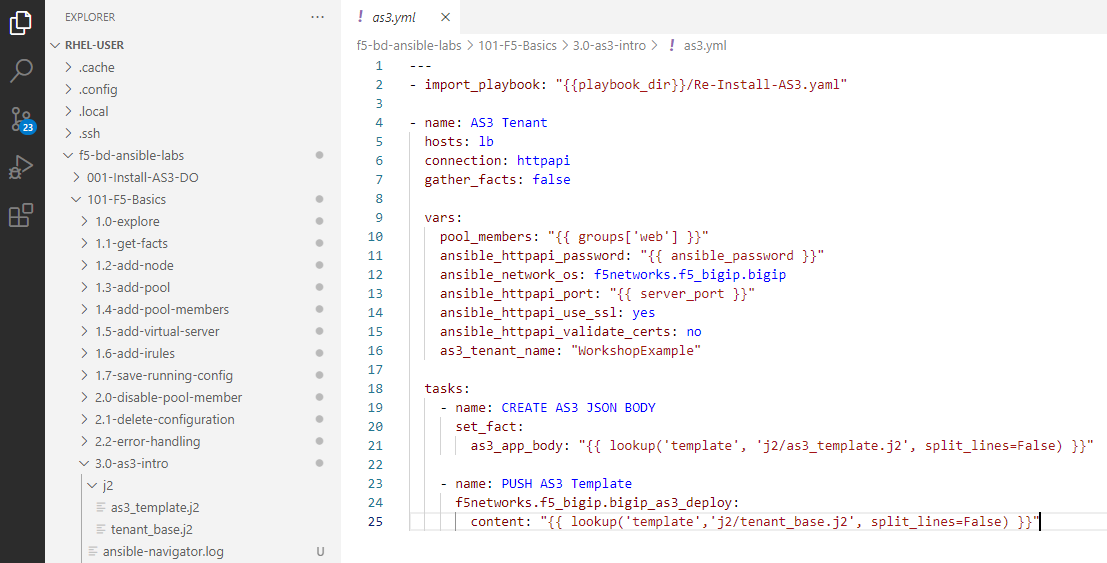
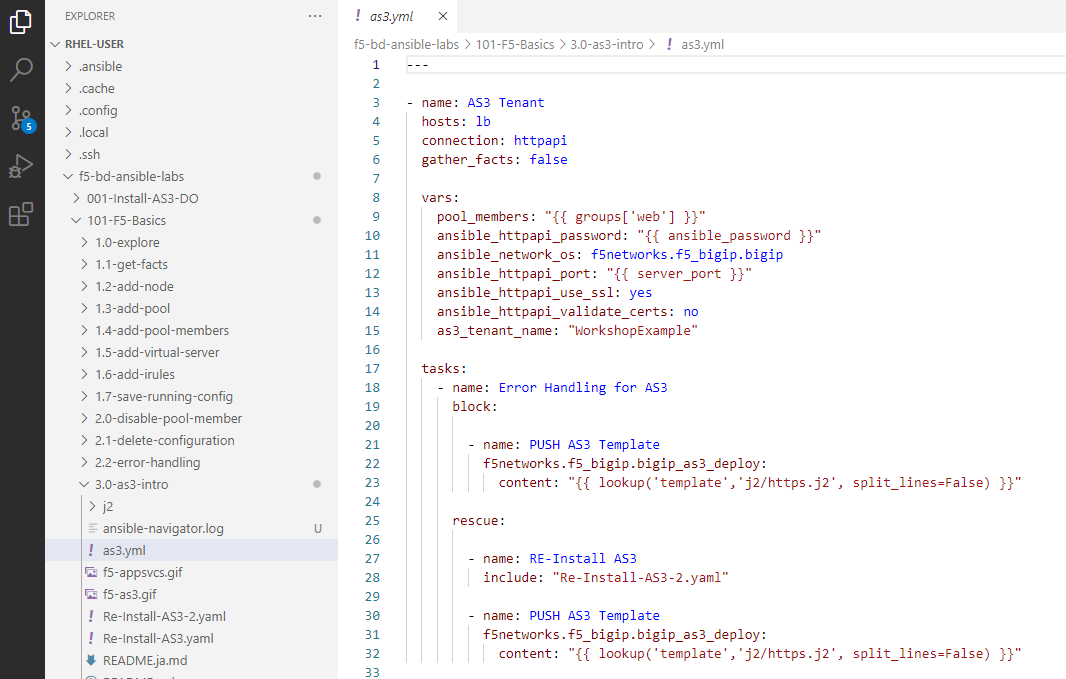
AS3 fixes for the 101 usecase

diff --git a/docs/101/3.0/3.0-as3-intro.rst b/docs/101/3.0/3.0-as3-intro.rst
@@ -34,73 +34,69 @@ Step 2:
 
 Before executing the Playbook, its important to understand how AS3 works. AS3 requires a JSON template to be handed as an API call to F5 BIG-IP. There are two parts:
 
-   - examine the ``tenant_base.j2`` located in the j2 folder
+   - examine the ``https.j2`` located in the j2 folder
 
       .. code:: yaml
 
          {
-            "class": "AS3",
-            "action": "deploy",
-            "persist": true,
-            "declaration": {
-               "class": "ADC",
-               "schemaVersion": "3.2.0",
-               "id": "testid",
-               "label": "test-label",
-               "remark": "test-remark",
-               "WorkshopExample":{
-                     "class": "Tenant",
-                     {{ as3_app_body }}
+         "class": "AS3",
+         "action": "deploy",
+         "persist": true,
+         "declaration": {
+            "class": "ADC",
+            "schemaVersion": "3.0.0",
+            "id": "usecase1",
+            "label": "Ansible Workshops",
+            "remark": "HTTPS with pool",
+            "{{ as3_tenant_name }}": {
+               "class": "Tenant",
+               "AS3-UseCase-1": {
+               "class": "Application",
+               "service_Main": {
+                  "class": "Service_HTTPS",
+                  "virtualAddresses": [
+                     "{{ private_ip }}"
+                  ],
+                  "profileMultiplex": {
+                     "bigip": "/Common/oneconnect"
+                  },
+                  "pool": "app_pool",
+                  "serverTLS": {
+                           "bigip": "/Common/clientssl"
+                        },
+                  "persistenceMethods": []
+               },
+               "app_pool": {
+                  "class": "Pool",
+                        "minimumMembersActive": 0,
+                        "minimumMonitors": "all",
+                  "monitors": [
+                     "http"
+                  ],
+                  "members": [{
+                     "servicePort": 443,
+                     "serverAddresses": [
+                           {% set comma = joiner(",") %}
+                           {% for mem in pool_members %}
+                                 {{comma()}} "{{  hostvars[mem]['private_ip']  }}"
+                           {% endfor %}
+                     ]
+                  }]
+               }
                }
             }
          }
+         }
 
-   ``tenant_base.j2`` is a standard template that can be used to identify a tenant. The important parts to understand are:
+   ``https.j2`` is a JSON representation of the Web Application. The important parts to note are:
+
+   -  The template can use variables just like tasks do in previous exercises. In this case the virtual IP address is the private_ip from our inventory.
+   -  There is a virtual server named ``service_Main``.
 
       -  ``"WorkshopExample"`` - this is the name of our Tenant. The AS3 will create a tenant for this particular WebApp. A WebApp in this case is a virtual server that load balances between our two web servers.
       -  ``"class": "Tenant"`` - this indicates that ``WorkshopExample`` is a Tenant.
       -  ``{{ as3_app_body }}`` - this is a variable that will point to the second jinja2 template which is the actual WebApp.
-
-   - examine the ``as3_template.j2`` located in the j2 folder
-
-      .. code:: yaml
-
-         "web_app": {
-            "class": "Application",
-            "template": "http",
-            "serviceMain": {
-               "class": "Service_HTTP",
-               "virtualAddresses": [
-                     "{{private_ip}}"
-               ],
-               "pool": "app_pool"
-            },
-            "app_pool": {
-               "class": "Pool",
-               "monitors": [
-                     "http"
-               ],
-               "members": [
-                     {
-                        "servicePort": 443,
-                        "serverAddresses": [
-                           {% set comma = joiner(",") %}
-                           {% for mem in pool_members %}
-                                 {{comma()}} "{{  hostvars[mem]['ansible_host']  }}"
-                           {% endfor %}
-
-                        ]
-                     }
-               ]
-            }
-         }
-
-   This template is a JSON representation of the Web Application. The important parts to note are:
-
-   -  The template can use variables just like tasks do in previous exercises. In this case the virtual IP address is the private_ip from our inventory.
-   -  There is a virtual server named ``serviceMain``.
-
-      -  ``"class": "Service_HTTP"`` - defines the class of application service delivered, in this case its a HTTP Virtual Server.
+      -  ``"class": "Service_HTTPS"`` - defines the class of application service delivered, in this case its a HTTP Virtual Server.
       -  ``"virtualAddresses":`` - is an array object that contains the variable private_ip which is used for the Virtual Server being created. 
       -  ``"pool": "app_pool"`` - utlizes a pool created further down the template to import the web servers.
 
@@ -110,7 +106,7 @@ Before executing the Playbook, its important to understand how AS3 works. AS3 re
       -  ``"monitors":`` - Can utilize a built-in or created monitor (typically created in the AS3 template) to setup proper monitoring for the pool memebers.
       -  ``"members"`` - An arraylist of members and their service ports to attach to the created pool to deliver the application. 
 
-   **In Summary** the ``tenant_base.j2`` and ``as3_template.j2`` create one single JSON payload that represents a Web Application. We will build a Playbook that will send this JSON payload to a F5 BIG-IP.
+   **In Summary** the ``https.j2`` is a single JSON payload that represents a Web Application. We will build a Playbook that will send this JSON payload to a F5 BIG-IP.
 
 Step 3:
 -------
@@ -134,69 +130,18 @@ Step 4:
 
   .. code:: yaml
 
-   [rhel-user@ede... 3.0-as3-intro]$ ansible-navigator run as3.yml --mode stdout
-
-   PLAY [Download latest AS3 RPM] *************************************************
-
-   TASK [Get latest AS3 RPM] ******************************************************
-   changed: [localhost]
-
-   TASK [debug] *******************************************************************
-   ok: [localhost] => {
-      "as3_output.stdout_lines[0]": "https://github.com/F5Networks/f5-appsvcs-extension/releases/download/v3.44.0/f5-appsvcs-3.44.0-3.noarch.rpm"
-   }
-
-   TASK [ansible.builtin.set_fact] ************************************************
-   ok: [localhost]
-
-   TASK [Grab AS3 RPM from github] ************************************************
-   changed: [localhost]
-
-   PLAY [Install AS3 package to BIG-IP] *******************************************
-
-   TASK [Set a fact named 'provider' with BIG-IP login information] ***************
-   ok: [f5]
-
-   TASK [Grab the AS3 version from the home directory] ****************************
-   changed: [f5]
-
-   TASK [ansible.builtin.set_fact] ************************************************
-   ok: [f5]
-
-   TASK [Query BIG-IP facts] ******************************************************
-   ok: [f5]
-
-   TASK [Show if AS3 Installed] ***************************************************
-   ok: [f5] => (item=f5-appsvcs-3.42.0-5.noarch) => {
-      "msg": "f5-appsvcs-3.42.0-5.noarch"
-   }
-
-   TASK [Remove Previous AS3 Package] *********************************************
-   changed: [f5]
-
-   TASK [Install AS3] *************************************************************
-   changed: [f5]
-
-   TASK [pause] *******************************************************************
-   Pausing for 30 seconds
-   (ctrl+C then 'C' = continue early, ctrl+C then 'A' = abort)
-   ok: [f5]
+   [rhel-user@ede7a345-c0f1-47f9-a73b-74fded8ec113 3.0-as3-intro]$ ansible-navigator run as3.yml --mode stdout
 
    PLAY [AS3 Tenant] **************************************************************
-
-   TASK [CREATE AS3 JSON BODY] ****************************************************
-   ok: [f5]
 
    TASK [PUSH AS3 Template] *******************************************************
    changed: [f5]
 
    PLAY RECAP *********************************************************************
-   f5                         : ok=10   changed=4    unreachable=0    failed=0    skipped=0    rescued=0    ignored=0   
-   localhost                  : ok=4    changed=2    unreachable=0    failed=0    skipped=0    rescued=0    ignored=0 
-
+   f5                         : ok=1    changed=1    unreachable=0    failed=0    skipped=0    rescued=0    ignored=0 
   .. note::
    
-    This code will also install AS3 on the BIG-IP by calling ``- import_playbook: "{{playbook_dir}}/Re-Install-AS3.yaml"`` this just ensures AS3 is installed prior to executing AS3 code.
+    If there is an error running the AS3 template there is a error handling block that will re-install AS3 automatically then retry the code. 
 
 Solution
 ********

diff --git a/docs/101/3.0/3.1-as3-change.rst b/docs/101/3.0/3.1-as3-change.rst
@@ -18,7 +18,7 @@ Step 1:
 
    Figure out what is wrong. Login to the F5 with your web browser to see what was configured.
 
-   1. Click on ``ServiceMain`` to see why its down.
+   1. Click on ``service_Main`` to see why its down.
    2. Look at the ``Availability`` field in the table.
 
       .. figure:: ../images/pool-nodes-down.png
@@ -36,46 +36,66 @@ Step 1:
 Step 2:
 -------
 
-Now we are going to look at what changed in the ``as3_template.j2`` file as we have modified the service port from 443 to 80 and this is the only change made to the AS3 template
+Now we are going to look at what changed in the ``https.j2`` file as we have modified the service port from 443 to 80 and this is the only change made to the AS3 template
 
-   - examine the ``as3_template.j2`` located in the j2 folder
+   - examine the ``https.j2`` located in the j2 folder
 
       .. code:: yaml
 
-         "web_app": {
-            "class": "Application",
-            "template": "http",
-            "serviceMain": {
-               "class": "Service_HTTP",
-               "virtualAddresses": [
-                     "{{private_ip}}"
-               ],
-               "pool": "app_pool"
-            },
-            "app_pool": {
-               "class": "Pool",
-               "monitors": [
+         {
+         "class": "AS3",
+         "action": "deploy",
+         "persist": true,
+         "declaration": {
+            "class": "ADC",
+            "schemaVersion": "3.0.0",
+            "id": "usecase1",
+            "label": "Ansible Workshops",
+            "remark": "HTTPS with pool",
+            "{{ as3_tenant_name }}": {
+               "class": "Tenant",
+               "AS3-UseCase-1": {
+               "class": "Application",
+               "service_Main": {
+                  "class": "Service_HTTPS",
+                  "virtualAddresses": [
+                     "{{ private_ip }}"
+                  ],
+                  "profileMultiplex": {
+                     "bigip": "/Common/oneconnect"
+                  },
+                  "pool": "app_pool",
+                  "serverTLS": {
+                           "bigip": "/Common/clientssl"
+                        },
+                  "persistenceMethods": []
+               },
+               "app_pool": {
+                  "class": "Pool",
+                        "minimumMembersActive": 0,
+                        "minimumMonitors": "all",
+                  "monitors": [
                      "http"
-               ],
-               "members": [
-                     {
-                        "servicePort": 80,
-                        "serverAddresses": [
+                  ],
+                  "members": [{
+                     "servicePort": 80,
+                     "serverAddresses": [
                            {% set comma = joiner(",") %}
                            {% for mem in pool_members %}
-                                 {{comma()}} "{{  hostvars[mem]['ansible_host']  }}"
+                                 {{comma()}} "{{  hostvars[mem]['private_ip']  }}"
                            {% endfor %}
-
-                        ]
-                     }
-               ]
+                     ]
+                  }]
+               }
+               }
             }
+         }
          }
 
 Step 3:
 -------
 
-   Change directories to the exercise 3.0 folder to examine and execute the code in the Terminal
+   Change directories to the exercise 3.1 folder to examine and execute the code in the Terminal
 
    .. code::
 
@@ -98,18 +118,12 @@ Step 4:
 
    PLAY [AS3 Tenant Change] *******************************************************
 
-   TASK [CREATE AS3 JSON BODY] ****************************************************
-   ok: [f5]
-
    TASK [PUSH AS3 Template] *******************************************************
    changed: [f5]
 
    PLAY RECAP *********************************************************************
-   f5                         : ok=2    changed=1    unreachable=0    failed=0    skipped=0    rescued=0    ignored=0   
+   f5                         : ok=1    changed=1    unreachable=0    failed=0    skipped=0    rescued=0    ignored=0   
 
-  .. note::
-   
-    This code doesn't have the ``- import_playbook: "{{playbook_dir}}/Re-Install-AS3.yaml"`` as we do not need AS3 re-installed, the rest of as3.yml is the same.
 
 Solution
 ********
